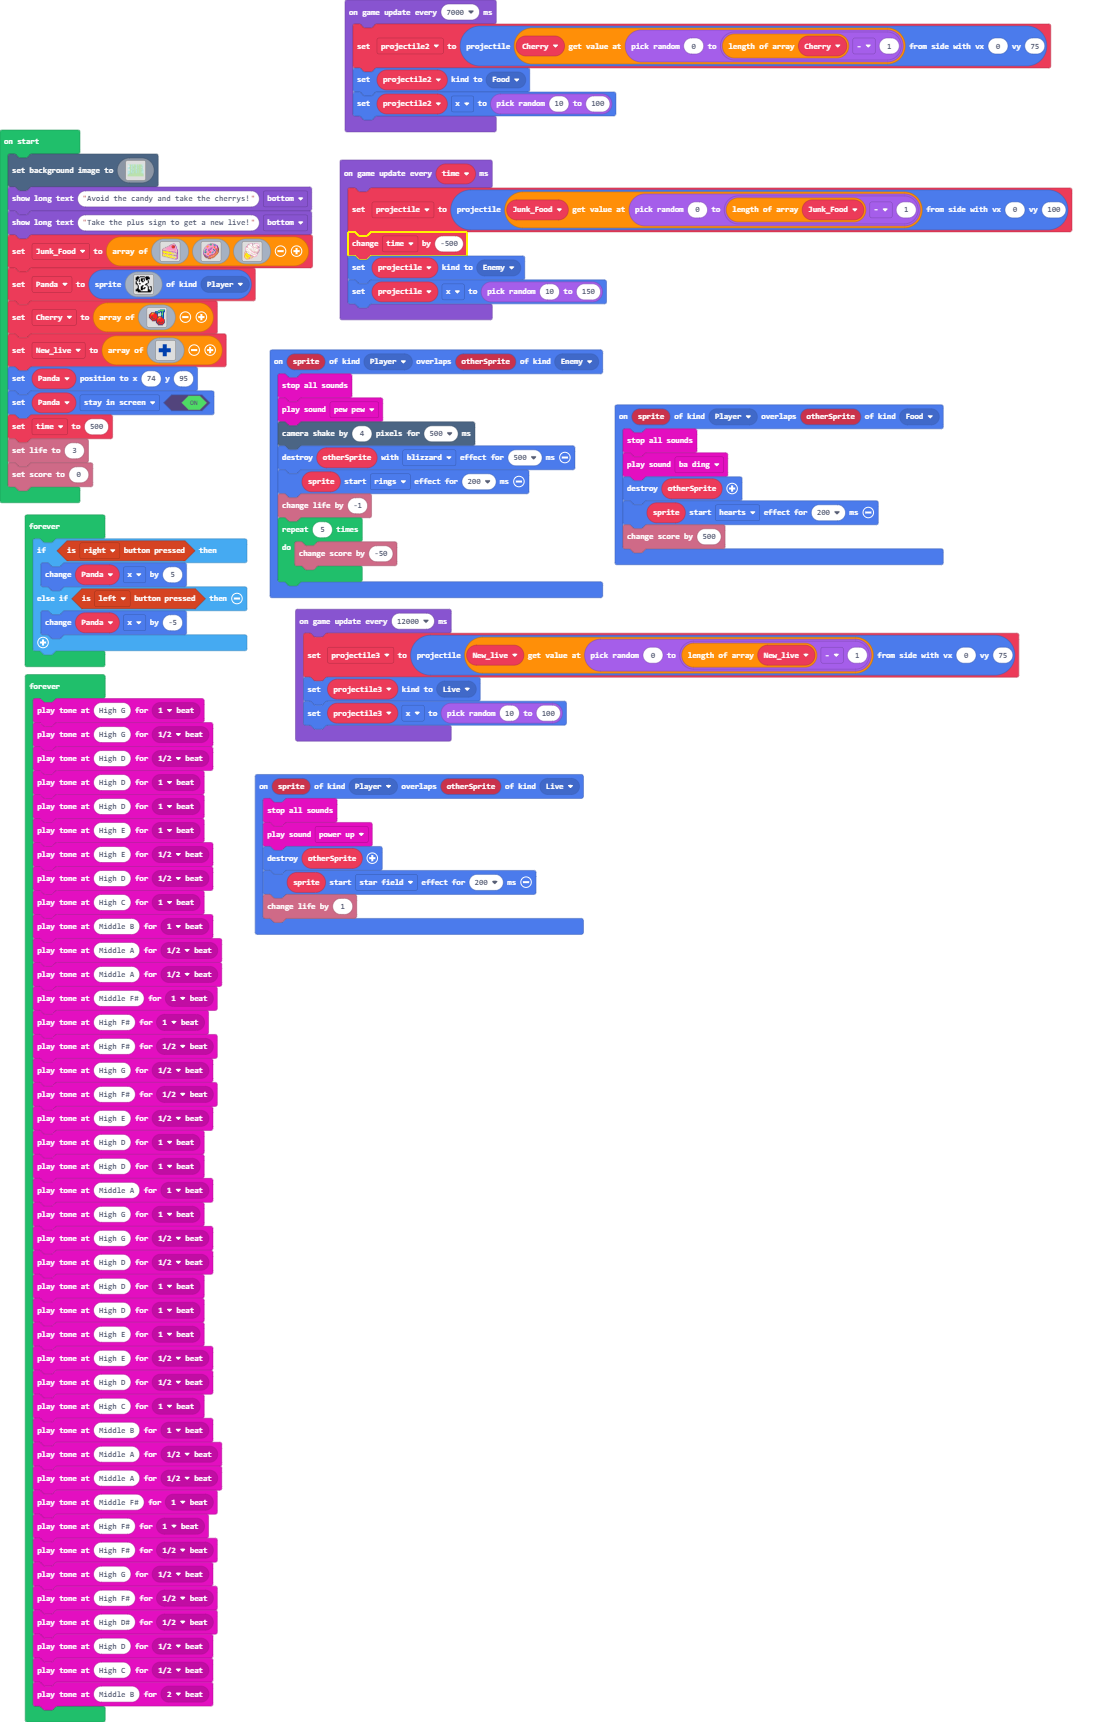
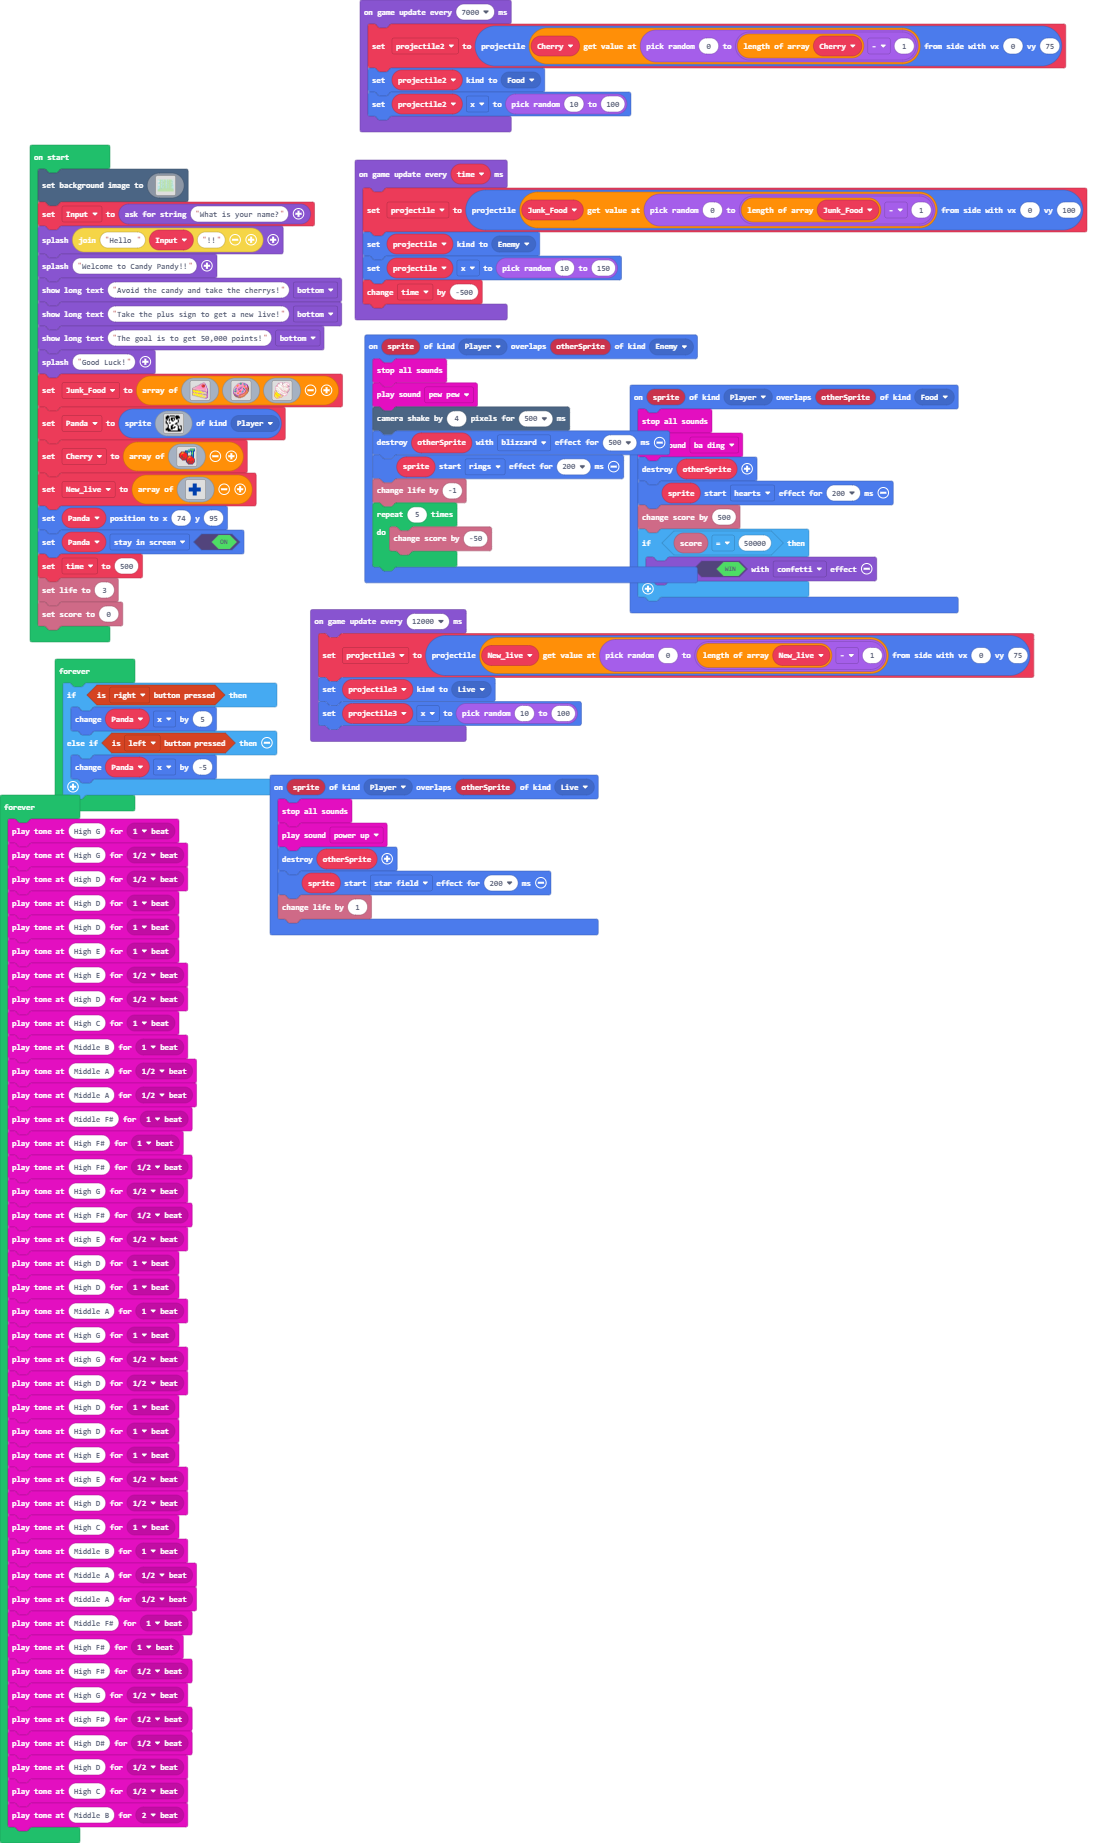
Update main.blocks, main.ts

diff --git a/main.ts b/main.ts
@@ -14,6 +14,9 @@ sprites.onOverlap(SpriteKind.Player, SpriteKind.Food, function (sprite, otherSpr
     otherSprite.destroy()
     sprite.startEffect(effects.hearts, 200)
     info.changeScoreBy(500)
+    if (info.score() == 50000) {
+        game.over(true, effects.confetti)
+    }
 })
 sprites.onOverlap(SpriteKind.Player, SpriteKind.Enemy, function (sprite, otherSprite) {
     music.stopAllSounds()
@@ -151,8 +154,13 @@ scene.setBackgroundImage(img`
     7777777777777777777777777777777777777777777777777777777777777777777777777777777777777777777777777777777777777777777777777777777777777777777777777777777777777777
     7777777777777777777777777777777777777777777777777777777777777777777777777777777777777777777777777777777777777777777777777777777777777777777777777777777777777777
     `)
+let Input = game.askForString("What is your name?")
+game.splash("Hello " + Input + "!!")
+game.splash("Welcome to Candy Pandy!!")
 game.showLongText("Avoid the candy and take the cherrys!", DialogLayout.Bottom)
 game.showLongText("Take the plus sign to get a new live!", DialogLayout.Bottom)
+game.showLongText("The goal is to get 50,000 points!", DialogLayout.Bottom)
+game.splash("Good Luck!")
 let Junk_Food = [img`
     ......................bbb.......
     ....................bb333b......
@@ -319,9 +327,9 @@ game.onUpdateInterval(12000, function () {
 })
 game.onUpdateInterval(time, function () {
     projectile = sprites.createProjectileFromSide(Junk_Food[randint(0, Junk_Food.length - 1)], 0, 100)
-    time += -500
     projectile.setKind(SpriteKind.Enemy)
     projectile.x = randint(10, 150)
+    time += -500
 })
 game.onUpdateInterval(7000, function () {
     projectile2 = sprites.createProjectileFromSide(Cherry[randint(0, Cherry.length - 1)], 0, 75)
